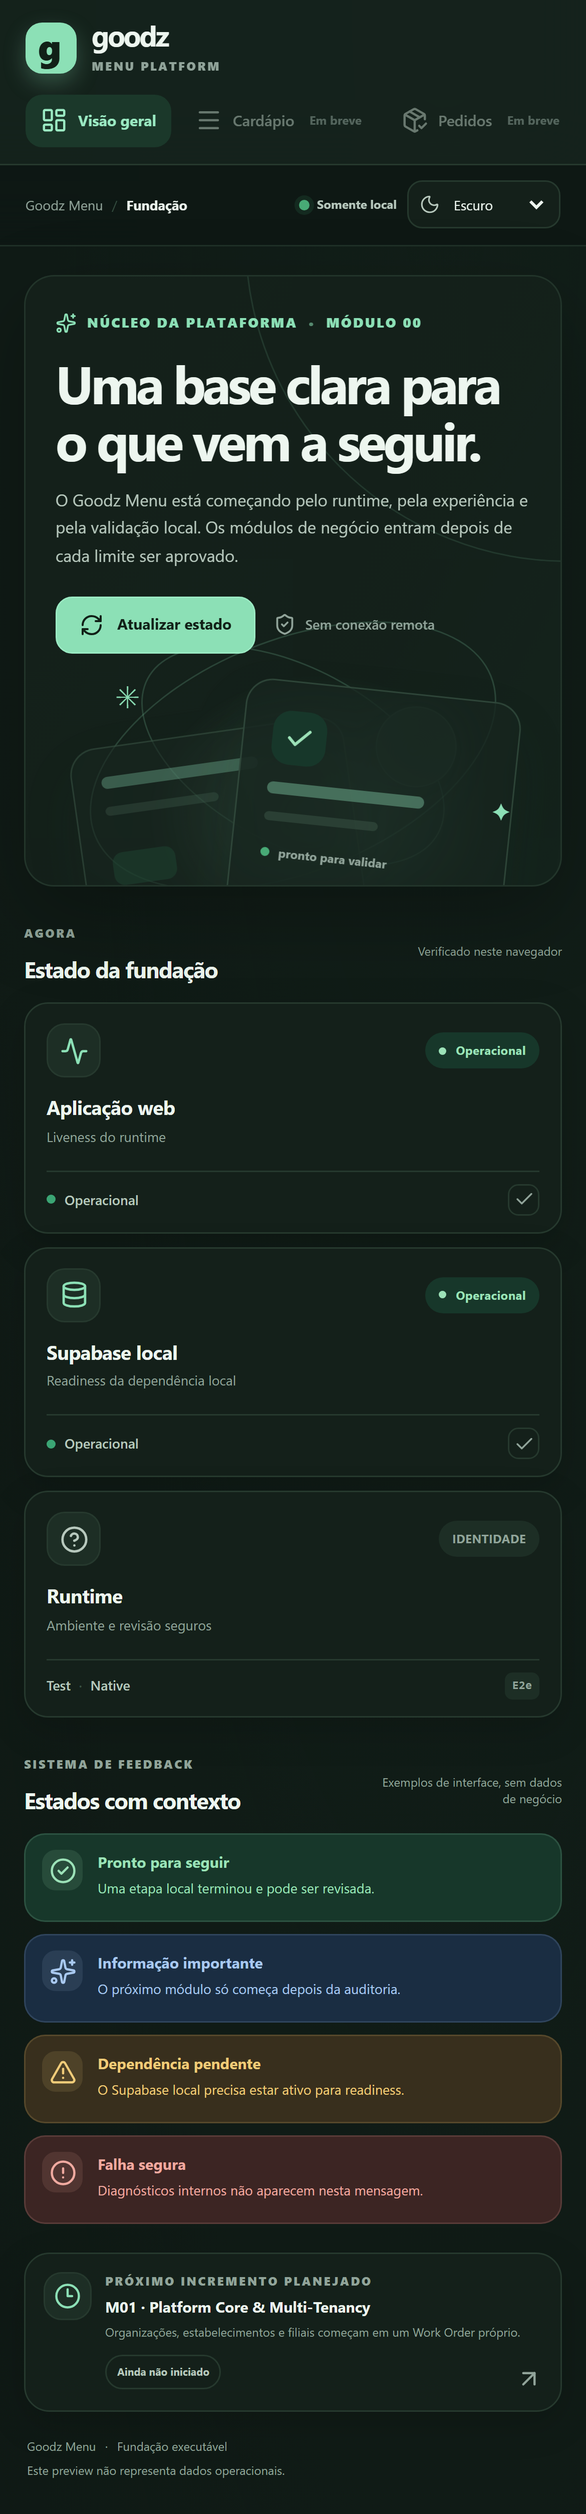
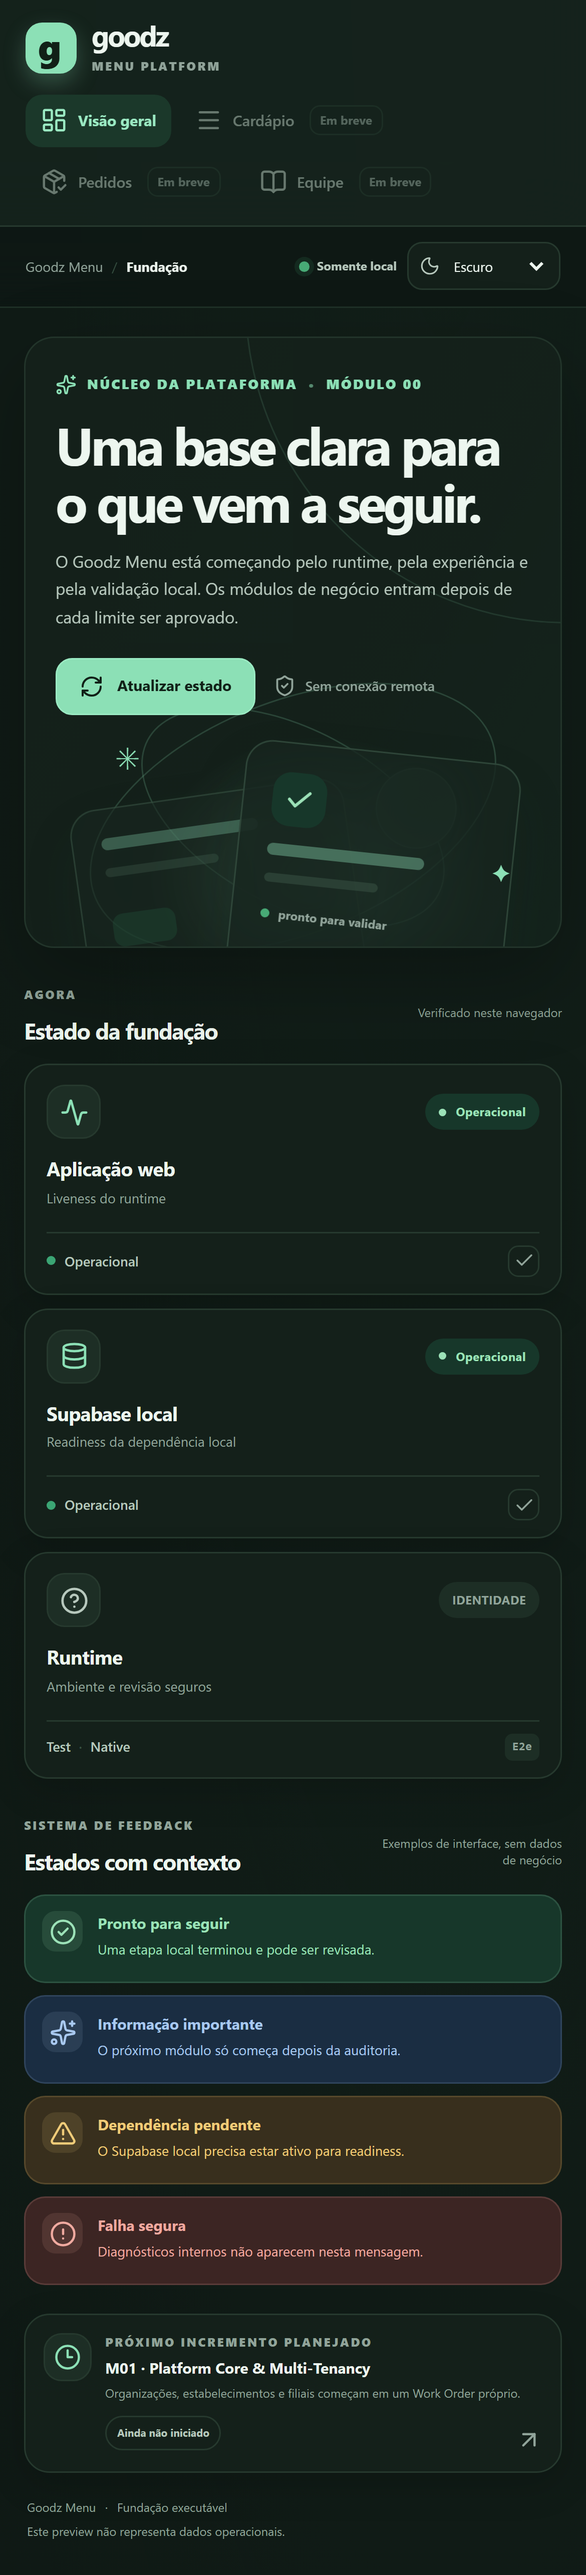
fix: make mobile navigation fully visible

diff --git a/tests/e2e/foundation.spec.ts b/tests/e2e/foundation.spec.ts
@@ -77,6 +77,11 @@ test("keyboard users can skip navigation and move focus to the main content", as
   await expect(skipLink).toBeVisible();
   await expect(skipLink).toHaveCSS("outline-style", "solid");
   await expect(skipLink).toHaveCSS("outline-width", "3px");
+  const skipLinkIsInViewport = await skipLink.evaluate((element) => {
+    const bounds = element.getBoundingClientRect();
+    return bounds.left >= 0 && bounds.top >= 0 && bounds.right <= window.innerWidth && bounds.bottom <= window.innerHeight;
+  });
+  expect(skipLinkIsInViewport).toBe(true);
 
   await page.keyboard.press("Enter");
   await expect(page.getByRole("main")).toBeFocused();
@@ -140,8 +145,24 @@ test("foundation reflows at a 320 CSS pixel viewport without page-level overflow
     `Horizontal overflow sources: ${JSON.stringify(overflowSources)}`,
   ).toBeLessThanOrEqual(dimensions.viewportWidth);
   await expect(page.getByRole("heading", { name: "Uma base clara para o que vem a seguir." })).toBeVisible();
-  await expect(page.getByRole("navigation", { name: "Navegação principal" })).toBeVisible();
-  await expect(page.locator(".primary-nav .nav-badge").first()).toHaveCSS("position", "static");
+  const primaryNavigation = page.getByRole("navigation", { name: "Navegação principal" });
+  await expect(primaryNavigation).toBeVisible();
+  await expect(primaryNavigation).toHaveCSS("flex-wrap", "wrap");
+  await expect(primaryNavigation).toHaveCSS("overflow-x", "visible");
+  const navigationItemBounds = await page.locator(".primary-nav .nav-link").evaluateAll((elements) =>
+    elements.map((element) => {
+      const bounds = element.getBoundingClientRect();
+      return { left: bounds.left, right: bounds.right };
+    }),
+  );
+  for (const bounds of navigationItemBounds) {
+    expect(bounds.left).toBeGreaterThanOrEqual(0);
+    expect(bounds.right).toBeLessThanOrEqual(dimensions.viewportWidth + 1);
+  }
+  const mobileBadge = page.locator(".primary-nav .nav-badge").first();
+  await expect(mobileBadge).toHaveCSS("position", "static");
+  await expect(mobileBadge).toHaveCSS("padding", "3px 6px");
+  await expect(mobileBadge).toHaveCSS("border-top-width", "1px");
   await expect(page.getByRole("navigation", { name: "Localização atual" })).toBeVisible();
   await expect(page.getByRole("combobox", { name: "Tema da interface" })).toBeVisible();
   await expectA11y(page);

diff --git a/src/app/globals.css b/src/app/globals.css
@@ -269,11 +269,10 @@ button:disabled { cursor: not-allowed; }
   .brand { justify-content: flex-start; }
   .brand-copy { position: static; display: flex; width: auto; height: auto; margin: 0; overflow: visible; clip: auto; clip-path: none; white-space: normal; }
   .brand-mark { width: 34px; height: 34px; border-radius: 11px; font-size: 24px; }
-  .primary-nav { display: flex; width: 100%; flex-direction: row; align-items: center; gap: 6px; overflow-x: auto; margin-top: 11px; padding: 2px 0 1px; scrollbar-width: none; }
-  .primary-nav::-webkit-scrollbar { display: none; }
+  .primary-nav { display: flex; width: 100%; flex-direction: row; flex-wrap: wrap; align-items: center; gap: 6px; overflow-x: visible; margin-top: 11px; padding: 2px 0 1px; }
   .nav-link { display: inline-flex; width: auto; min-width: max-content; min-height: 35px; justify-content: flex-start; gap: 7px; padding: 0 10px; font-size: 10px; }
   .nav-link > span:not(.nav-badge) { position: static; display: inline; width: auto; height: auto; margin: 0; overflow: visible; clip: auto; clip-path: none; white-space: normal; }
-  .nav-link > .nav-badge { position: static; width: auto; height: auto; margin: 0 0 0 3px; overflow: visible; clip: auto; clip-path: none; }
+  .nav-link > .nav-badge { position: static; width: auto; height: auto; margin: 0 0 0 3px; padding: 3px 6px; border: 1px solid var(--border-subtle); overflow: visible; clip: auto; clip-path: none; }
   .nav-link-disabled { opacity: 0.52; }
   .sidebar-spacer, .profile-row { display: none; }
   .topbar { position: static; min-height: 54px; gap: 8px; padding-inline: 17px; }
